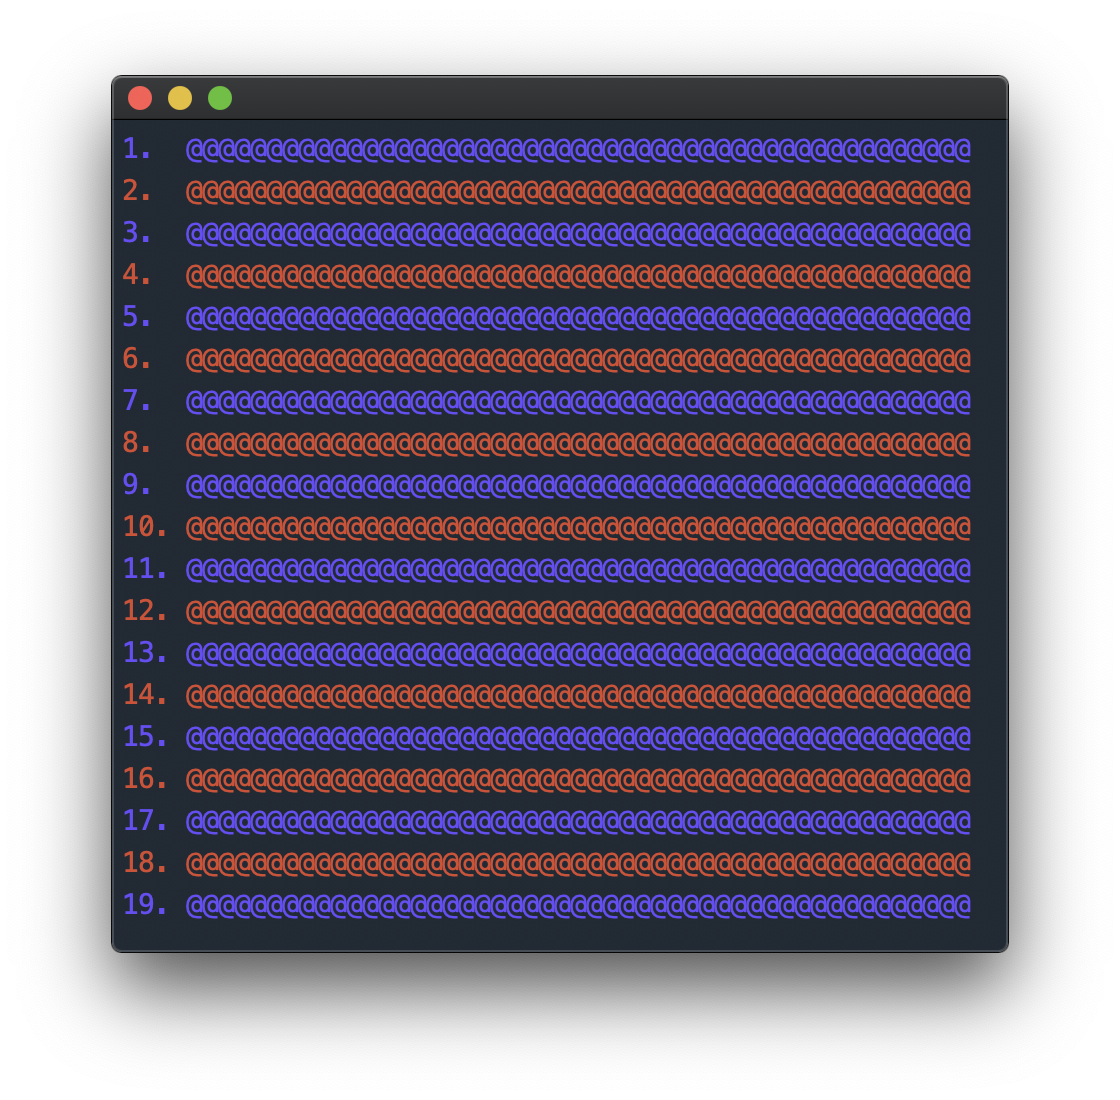
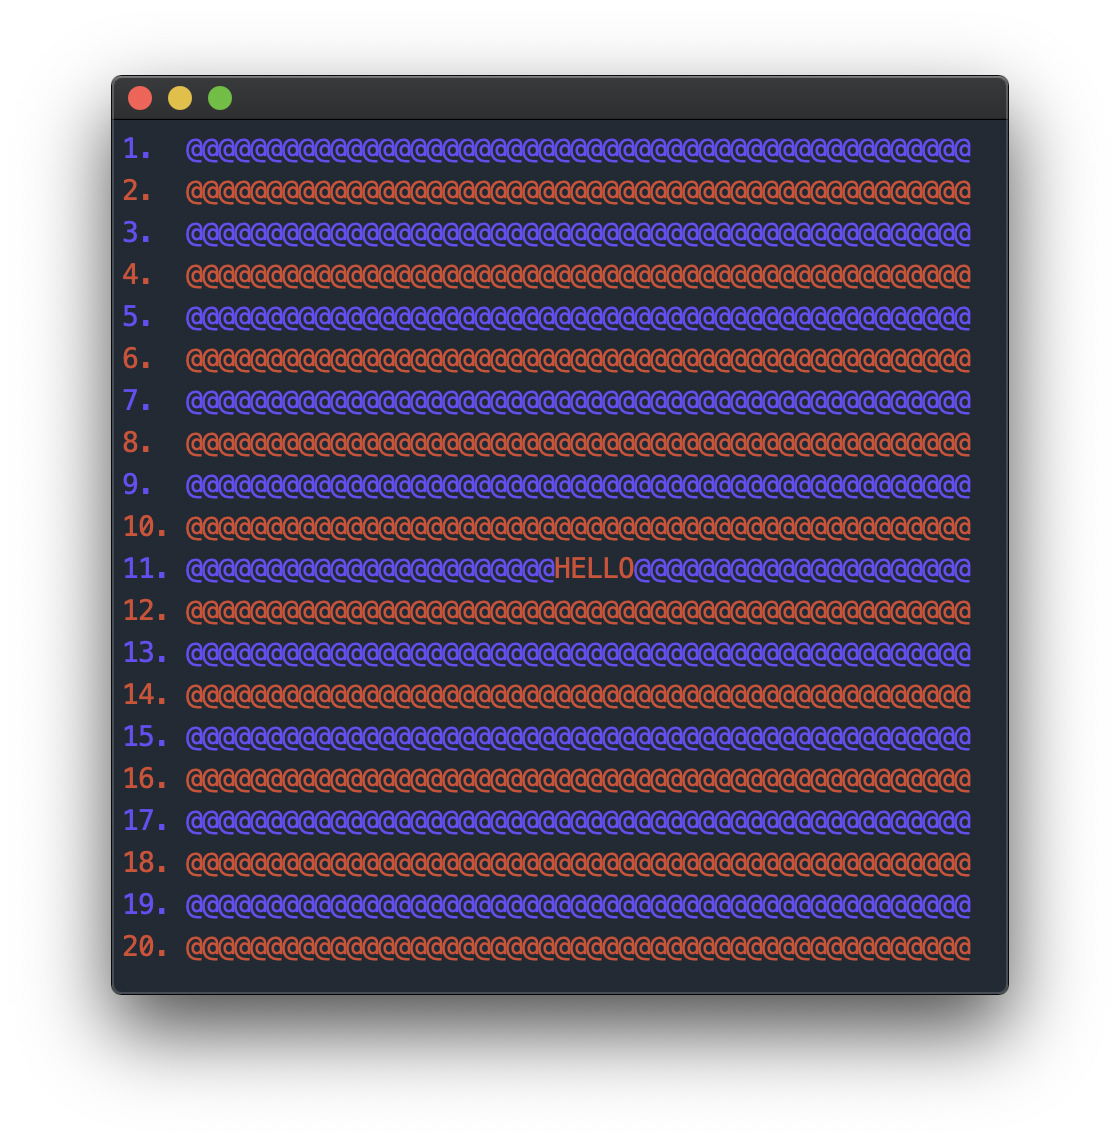
Better example1

diff --git a/examples/example1.cpp b/examples/example1.cpp
@@ -45,5 +45,9 @@ int main()
 {
     Screen s;
     drawLoad(s);
+    s.up(s.getHeight()/2);
+    s.right(s.getWidth()/2);
+    s.print("HELLO\n");
+    s.down(s.getHeight()/2-1);
     return 0;
 }
